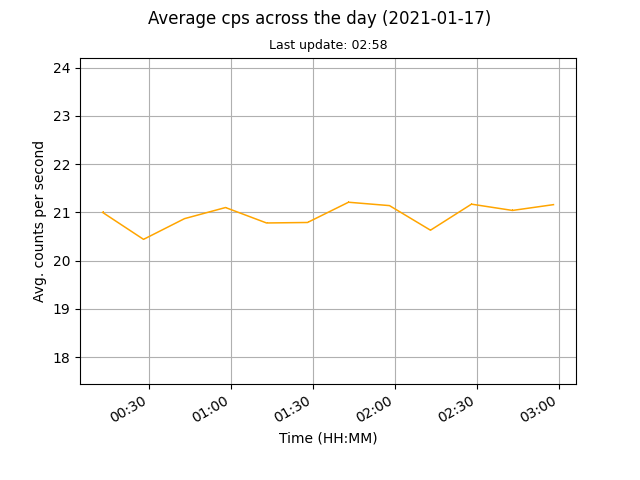
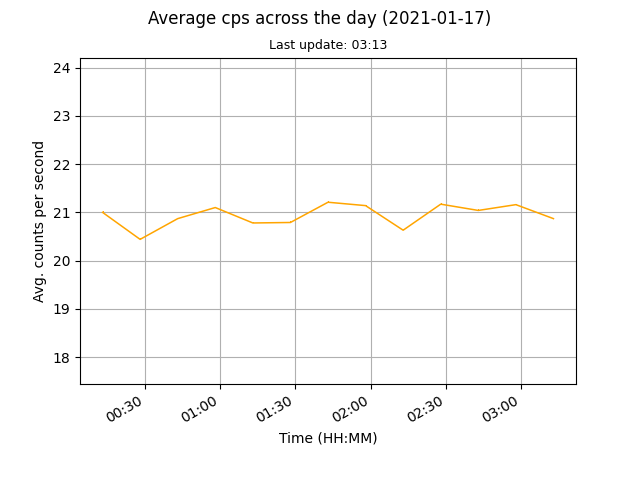
auto data update

diff --git a/docs/index.html b/docs/index.html
@@ -45,8 +45,8 @@
 	
 	<br>
 	
-	<p>Current counts per second (cps): 21.16</p>
-	<p>Last update: 2021-01-17, 02:58</p>
+	<p>Current counts per second (cps): 20.87</p>
+	<p>Last update: 2021-01-17, 03:13</p>
 
 	<p><a href="images/monthly.png"><img src="images/monthly.png" alt="Mothly avg cps data"></a><a href="images/daily.png"><img src="images/daily.png" alt="Daily avg cps data"></a></p>
 	
